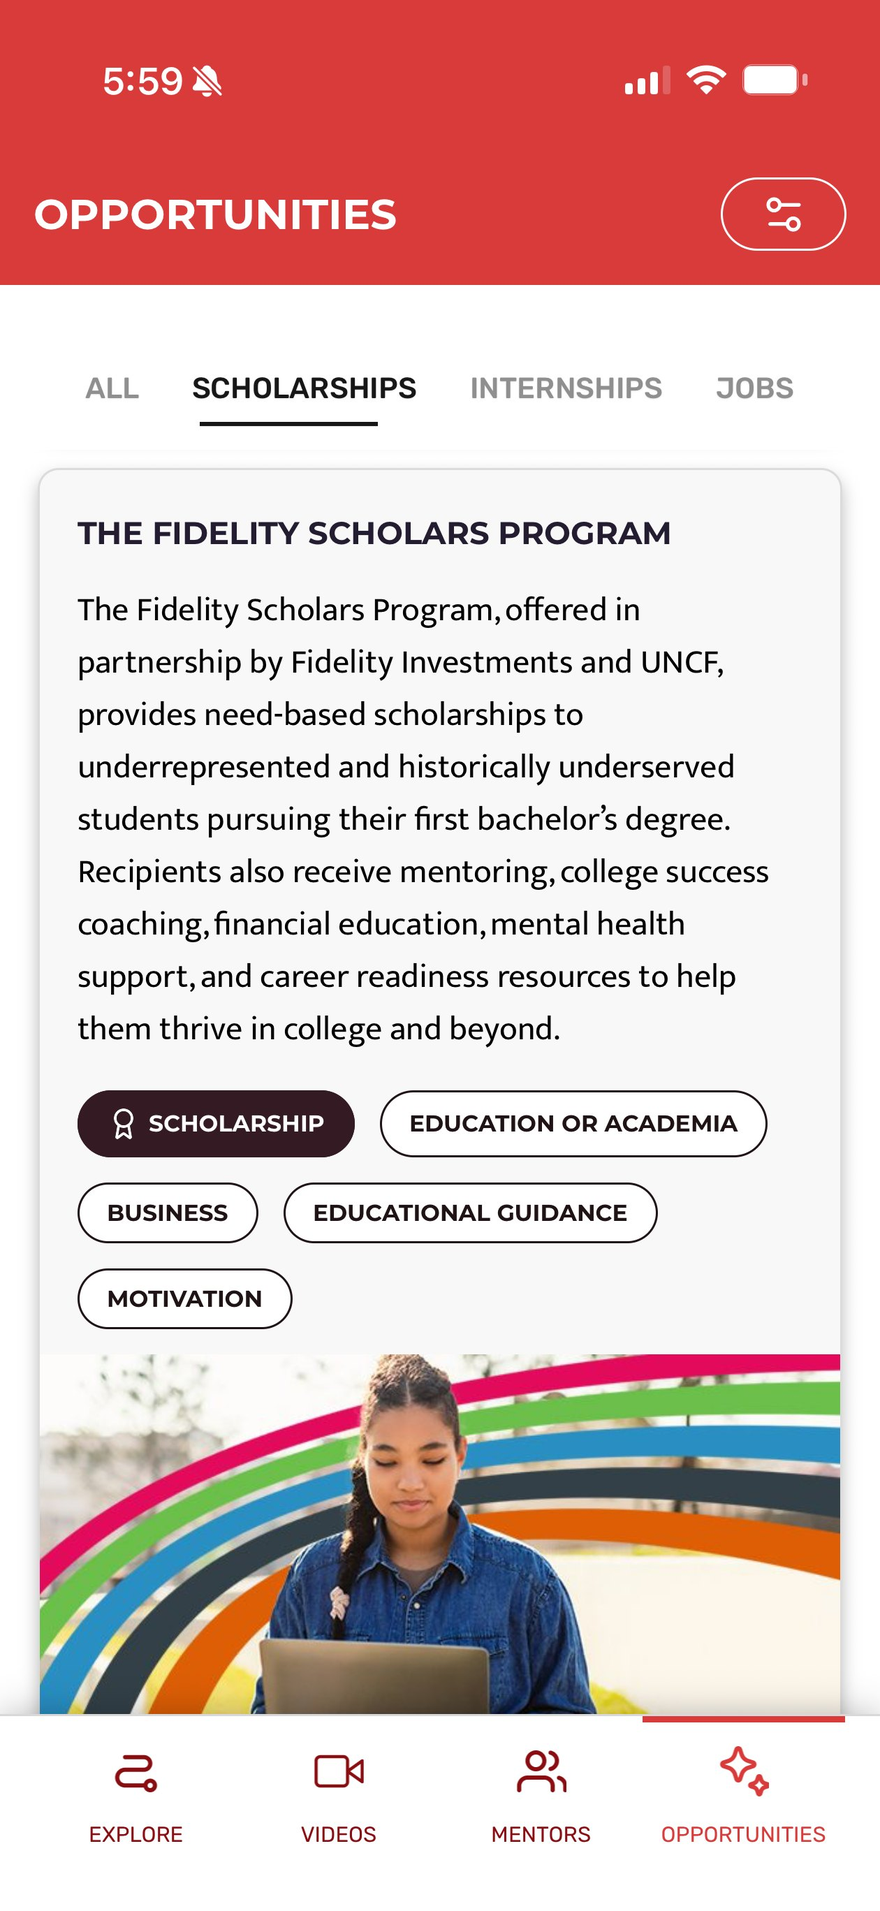
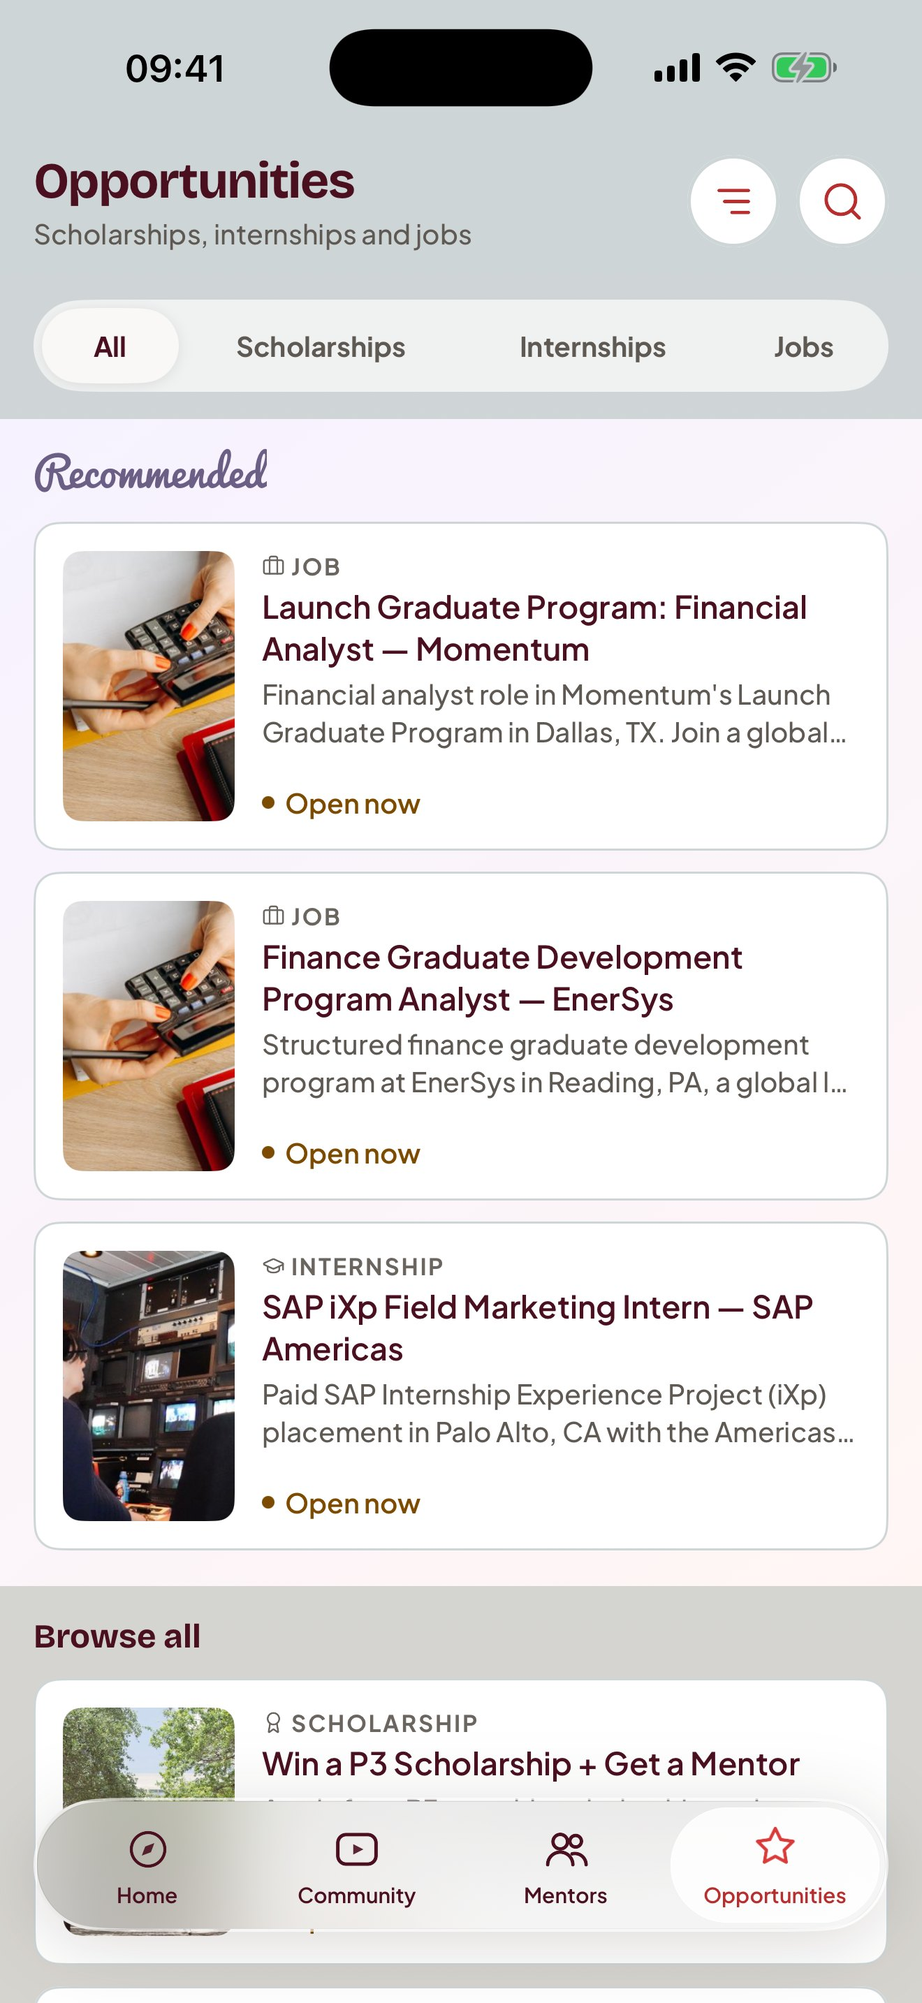
Redesign captures on frames 01-02, 05, 06, 07, 09-10; closing pano rewritten
Every phone in the set now shows the redesigned app (production simulator, 9:41
status bar) except frame 04, which still carries the old Paul M player until video
playback works on the simulators again. The closing pano's browser shows the web
platform Home instead of Milestones, the phone shows the app Home, and the "Only on
the web" block - two-thirds false since Conversations and Career Compass reached
mobile - is replaced with "Start on the app. Continue on the web." over three rows
that are true for every user: same account, nothing to install, free as always.

diff --git a/index.html b/index.html
@@ -501,7 +501,7 @@ body.export .frame-wrap .frame { transform: none; }
 
 <div class="store">
   <div class="store-header">
-    <img class="store-icon" src="assets/icon-b-1024.png?v=202608161013?v=2" alt="P3 app icon">
+    <img class="store-icon" src="assets/icon-b-1024.png?v=202609042145?v=2" alt="P3 app icon">
     <div class="store-meta">
       <h1>P3: Pulse of Perseverance</h1>
       <div class="subtitle">Empower Education &amp; Mentorship</div>
@@ -523,9 +523,9 @@ body.export .frame-wrap .frame { transform: none; }
         <div class="frame-wrap" data-zoom="frame-01">
           <div class="frame" id="frame-01">
             <div class="pano open-pair">
-              <div class="pano-watermark"><img src="assets/campus-bg.jpg?v=202608161013" alt=""></div>
+              <div class="pano-watermark"><img src="assets/campus-bg.jpg?v=202609042145" alt=""></div>
               <div class="brand-col">
-                <img class="wordmark" src="assets/p3-logo-horizontal.png?v=202608161013" alt="P3 Pulse of Perseverance">
+                <img class="wordmark" src="assets/p3-logo-horizontal.png?v=202609042145" alt="P3 Pulse of Perseverance">
                 <div class="statement">The career<br>accelerator<br>for the <em>next<br>generation.</em></div>
                 <div class="index">
                   <div class="row">
@@ -556,7 +556,7 @@ body.export .frame-wrap .frame { transform: none; }
               </div>
               <div class="device tilt">
                 <div class="screen">
-                  <img class="capture" src="captures/home.jpg?v=202608161013" alt="P3 home feed">
+                  <img class="capture" src="captures/home.jpg?v=202609042145" alt="P3 home feed">
                 </div>
               </div>
             </div>
@@ -566,9 +566,9 @@ body.export .frame-wrap .frame { transform: none; }
         <div class="frame-wrap" data-zoom="frame-02">
           <div class="frame pr" id="frame-02">
             <div class="pano open-pair">
-              <div class="pano-watermark"><img src="assets/campus-bg.jpg?v=202608161013" alt=""></div>
+              <div class="pano-watermark"><img src="assets/campus-bg.jpg?v=202609042145" alt=""></div>
               <div class="brand-col">
-                <img class="wordmark" src="assets/p3-logo-horizontal.png?v=202608161013" alt="">
+                <img class="wordmark" src="assets/p3-logo-horizontal.png?v=202609042145" alt="">
                 <div class="statement">The career<br>accelerator<br>for the <em>next<br>generation.</em></div>
                 <div class="index">
                   <div class="row">
@@ -599,7 +599,7 @@ body.export .frame-wrap .frame { transform: none; }
               </div>
               <div class="device tilt">
                 <div class="screen">
-                  <img class="capture" src="captures/home.jpg?v=202608161013" alt="P3 home feed">
+                  <img class="capture" src="captures/home.jpg?v=202609042145" alt="P3 home feed">
                 </div>
               </div>
             </div>
@@ -635,22 +635,22 @@ body.export .frame-wrap .frame { transform: none; }
               <line x1="660" y1="950" x2="1000" y2="1560" stroke="rgba(255,255,255,0.10)" stroke-width="2"/>
               <line x1="660" y1="950" x2="210" y2="1630" stroke="rgba(255,255,255,0.10)" stroke-width="2"/>
             </svg>
-            <div class="c-node" style="width:170px;height:170px;left:875px;top:615px"><img src="assets/mentors/thomas.jpg?v=202608161013" alt="Thomas, P3 mentor"></div>
+            <div class="c-node" style="width:170px;height:170px;left:875px;top:615px"><img src="assets/mentors/thomas.jpg?v=202609042145" alt="Thomas, P3 mentor"></div>
             <div class="c-tag" style="left:865px;top:800px">97% match</div>
-            <div class="c-node" style="width:170px;height:170px;left:245px;top:715px"><img src="assets/mentors/m2.jpg?v=202608161013" alt=""></div>
+            <div class="c-node" style="width:170px;height:170px;left:245px;top:715px"><img src="assets/mentors/m2.jpg?v=202609042145" alt=""></div>
             <div class="c-tag" style="left:210px;top:900px">94% match</div>
-            <div class="c-node" style="width:170px;height:170px;left:615px;top:1335px"><img src="assets/mentors/m3.jpg?v=202608161013" alt=""></div>
+            <div class="c-node" style="width:170px;height:170px;left:615px;top:1335px"><img src="assets/mentors/m3.jpg?v=202609042145" alt=""></div>
             <div class="c-tag" style="left:610px;top:1520px">92% match</div>
-            <div class="c-node" style="width:130px;height:130px;left:985px;top:1115px"><img src="assets/mentors/m4.jpg?v=202608161013" alt=""></div>
-            <div class="c-node" style="width:130px;height:130px;left:175px;top:1185px"><img src="assets/mentors/m5.jpg?v=202608161013" alt=""></div>
-            <div class="c-node" style="width:130px;height:130px;left:435px;top:415px"><img src="assets/mentors/m6.jpg?v=202608161013" alt=""></div>
-            <div class="c-node" style="width:108px;height:108px;left:1035px;top:465px"><img src="assets/mentors/m7.jpg?v=202608161013" alt=""></div>
-            <div class="c-node" style="width:108px;height:108px;left:125px;top:475px"><img src="assets/mentors/m8.jpg?v=202608161013" alt=""></div>
-            <div class="c-node" style="width:108px;height:108px;left:1075px;top:825px"><img src="assets/mentors/m9.jpg?v=202608161013" alt=""></div>
-            <div class="c-node" style="width:118px;height:118px;left:150px;top:1580px"><img src="assets/mentors/m10.jpg?v=202608161013" alt=""></div>
-            <div class="c-node" style="width:126px;height:126px;left:945px;top:1500px"><img src="assets/mentors/m11.jpg?v=202608161013" alt=""></div>
-            <div class="c-node" style="width:100px;height:100px;left:1150px;top:1230px"><img src="assets/mentors/m12.jpg?v=202608161013" alt=""></div>
-            <div class="c-node" style="width:96px;height:96px;left:560px;top:165px"><img src="assets/mentors/m13.jpg?v=202608161013" alt=""></div>
+            <div class="c-node" style="width:130px;height:130px;left:985px;top:1115px"><img src="assets/mentors/m4.jpg?v=202609042145" alt=""></div>
+            <div class="c-node" style="width:130px;height:130px;left:175px;top:1185px"><img src="assets/mentors/m5.jpg?v=202609042145" alt=""></div>
+            <div class="c-node" style="width:130px;height:130px;left:435px;top:415px"><img src="assets/mentors/m6.jpg?v=202609042145" alt=""></div>
+            <div class="c-node" style="width:108px;height:108px;left:1035px;top:465px"><img src="assets/mentors/m7.jpg?v=202609042145" alt=""></div>
+            <div class="c-node" style="width:108px;height:108px;left:125px;top:475px"><img src="assets/mentors/m8.jpg?v=202609042145" alt=""></div>
+            <div class="c-node" style="width:108px;height:108px;left:1075px;top:825px"><img src="assets/mentors/m9.jpg?v=202609042145" alt=""></div>
+            <div class="c-node" style="width:118px;height:118px;left:150px;top:1580px"><img src="assets/mentors/m10.jpg?v=202609042145" alt=""></div>
+            <div class="c-node" style="width:126px;height:126px;left:945px;top:1500px"><img src="assets/mentors/m11.jpg?v=202609042145" alt=""></div>
+            <div class="c-node" style="width:100px;height:100px;left:1150px;top:1230px"><img src="assets/mentors/m12.jpg?v=202609042145" alt=""></div>
+            <div class="c-node" style="width:96px;height:96px;left:560px;top:165px"><img src="assets/mentors/m13.jpg?v=202609042145" alt=""></div>
             <div class="c-you"><svg viewBox="0 0 24 24" style="width:96px;height:96px;stroke:#fff;fill:none;stroke-width:2.1;stroke-linecap:round;stroke-linejoin:round"><circle cx="12" cy="8" r="3.6"/><path d="M5 20a7 7 0 0 1 14 0"/></svg></div>
             <div class="c-you-label">You</div>
           </div>
@@ -672,7 +672,7 @@ body.export .frame-wrap .frame { transform: none; }
           <div class="stage">
             <div class="device">
               <div class="screen">
-                <img class="capture" src="captures/video.jpg?v=202608161013" alt="Video answer from a mentor">
+                <img class="capture" src="captures/video.jpg?v=202609042145" alt="Video answer from a mentor">
               </div>
             </div>
           </div>
@@ -686,7 +686,7 @@ body.export .frame-wrap .frame { transform: none; }
     <div class="slot">
       <div class="frame-wrap" data-zoom="frame-05">
         <div class="frame dark f-opps" id="frame-05">
-          <div class="photo-bg"><img src="assets/opps-bg.jpg?v=202608161013" alt=""></div>
+          <div class="photo-bg"><img src="assets/opps-bg.jpg?v=202609042145" alt=""></div>
           <div class="photo-overlay"></div>
           <div class="caption">
             <div class="headline">Scholarships.<br>Internships. <em>Jobs.</em></div>
@@ -695,7 +695,7 @@ body.export .frame-wrap .frame { transform: none; }
           <div class="stage">
             <div class="device">
               <div class="screen">
-                <img class="capture" src="captures/opportunities.jpg?v=202608161013" alt="Live scholarships feed">
+                <img class="capture" src="captures/opportunities.jpg?v=202609042145" alt="Live scholarships feed">
               </div>
             </div>
           </div>
@@ -722,7 +722,7 @@ body.export .frame-wrap .frame { transform: none; }
           <div class="stage">
             <div class="device">
               <div class="screen">
-                <img class="capture" src="captures/milestones.jpg?v=202608161013" alt="Milestone pathway">
+                <img class="capture" src="captures/milestones.jpg?v=202609042145" alt="Milestone pathway">
               </div>
             </div>
           </div>
@@ -744,7 +744,7 @@ body.export .frame-wrap .frame { transform: none; }
           <div class="stage">
             <div class="device">
               <div class="screen">
-                <img class="capture" src="captures/mentor.jpg?v=202608161013" alt="Mentor profile">
+                <img class="capture" src="captures/mentor.jpg?v=202609042145" alt="Mentor profile">
               </div>
             </div>
           </div>
@@ -758,7 +758,7 @@ body.export .frame-wrap .frame { transform: none; }
     <div class="slot">
       <div class="frame-wrap" data-zoom="frame-08">
         <div class="frame dark f-recog" id="frame-08">
-          <div class="recog-bg"><img src="assets/recognized-bg.jpg?v=202608161013" alt=""></div>
+          <div class="recog-bg"><img src="assets/recognized-bg.jpg?v=202609042145" alt=""></div>
           <div class="recog-wash"></div>
           <div class="caption">
             <div class="headline">Recognized by<br><em>the best.</em></div>
@@ -767,42 +767,42 @@ body.export .frame-wrap .frame { transform: none; }
           <div class="wall">
             <div class="w-label">AS SEEN IN</div>
             <div class="w-grid m3">
-              <div class="wt media"><img src="assets/logos/abc-news.png?v=202608161013" alt="ABC News" style="max-height:180px"></div>
-              <div class="wt media"><img src="assets/logos/nyt-square.png?v=202608161013" alt="The New York Times" style="max-height:142px"></div>
-              <div class="wt media"><img src="assets/logos/today.png?v=202608161013" alt="today"></div>
-              <div class="wt media"><img src="assets/logos/adweek.png?v=202608161013" alt="Advertising Week New York" style="width:100%;max-height:none"></div>
-              <div class="wt media"><img src="assets/logos/telly.png?v=202608161013" alt="The Telly Awards" style="max-height:158px"></div>
-              <div class="wt media" style="gap:14px"><img src="assets/logos/webby.svg?v=202608161013" alt="Webby Awards" style="height:128px;width:auto;flex:none"><div style="font-family:var(--body);font-weight:800;font-size:30px;line-height:1.1;color:#191919;letter-spacing:0.5px">THE<br>WEBBY<br>AWARDS</div></div>
+              <div class="wt media"><img src="assets/logos/abc-news.png?v=202609042145" alt="ABC News" style="max-height:180px"></div>
+              <div class="wt media"><img src="assets/logos/nyt-square.png?v=202609042145" alt="The New York Times" style="max-height:142px"></div>
+              <div class="wt media"><img src="assets/logos/today.png?v=202609042145" alt="today"></div>
+              <div class="wt media"><img src="assets/logos/adweek.png?v=202609042145" alt="Advertising Week New York" style="width:100%;max-height:none"></div>
+              <div class="wt media"><img src="assets/logos/telly.png?v=202609042145" alt="The Telly Awards" style="max-height:158px"></div>
+              <div class="wt media" style="gap:14px"><img src="assets/logos/webby.svg?v=202609042145" alt="Webby Awards" style="height:128px;width:auto;flex:none"><div style="font-family:var(--body);font-weight:800;font-size:30px;line-height:1.1;color:#191919;letter-spacing:0.5px">THE<br>WEBBY<br>AWARDS</div></div>
             </div>
             <div class="w-gap"></div>
             <div class="w-label">ACADEMIC PARTNERS</div>
             <div class="w-grid p3c">
-              <div class="wt partner"><img src="assets/logos/cps.png?v=202608161013" alt="cps"></div>
-              <div class="wt partner"><img src="assets/logos/csu.png?v=202608161013" alt="csu"></div>
-              <div class="wt partner"><img src="assets/logos/langston.png?v=202608161013" alt="langston"></div>
-              <div class="wt partner"><img src="assets/logos/xavier.png?v=202608161013" alt="xavier"></div>
-              <div class="wt partner"><img src="assets/logos/nyu.png?v=202608161013" alt="nyu"></div>
-              <div class="wt partner"><img src="assets/logos/leo.png?v=202608161013" alt="leo"></div>
+              <div class="wt partner"><img src="assets/logos/cps.png?v=202609042145" alt="cps"></div>
+              <div class="wt partner"><img src="assets/logos/csu.png?v=202609042145" alt="csu"></div>
+              <div class="wt partner"><img src="assets/logos/langston.png?v=202609042145" alt="langston"></div>
+              <div class="wt partner"><img src="assets/logos/xavier.png?v=202609042145" alt="xavier"></div>
+              <div class="wt partner"><img src="assets/logos/nyu.png?v=202609042145" alt="nyu"></div>
+              <div class="wt partner"><img src="assets/logos/leo.png?v=202609042145" alt="leo"></div>
             </div>
             <div class="w-gap"></div>
             <div class="w-label">COMMUNITY &amp; FOUNDATION PARTNERS</div>
             <div class="w-grid p3c">
-              <div class="wt partner"><img src="assets/logos/mbk.png?v=202608161013" alt="mbk"></div>
-              <div class="wt partner"><img src="assets/logos/champs.png?v=202608161013" alt="champs"></div>
-              <div class="wt partner"><img src="assets/logos/100bm.png?v=202608161013" alt="100bm"></div>
-              <div class="wt partner"><img src="assets/logos/build.png?v=202608161013" alt="build" style="max-height:88px"></div>
-              <div class="wt partner"><img src="assets/logos/project-hood.png?v=202608161013" alt="Project HOOD" style="filter:brightness(0)"></div>
-              <div class="wt partner"><img src="assets/logos/gilead.png?v=202608161013" alt="gilead"></div>
+              <div class="wt partner"><img src="assets/logos/mbk.png?v=202609042145" alt="mbk"></div>
+              <div class="wt partner"><img src="assets/logos/champs.png?v=202609042145" alt="champs"></div>
+              <div class="wt partner"><img src="assets/logos/100bm.png?v=202609042145" alt="100bm"></div>
+              <div class="wt partner"><img src="assets/logos/build.png?v=202609042145" alt="build" style="max-height:88px"></div>
+              <div class="wt partner"><img src="assets/logos/project-hood.png?v=202609042145" alt="Project HOOD" style="filter:brightness(0)"></div>
+              <div class="wt partner"><img src="assets/logos/gilead.png?v=202609042145" alt="gilead"></div>
             </div>
             <div class="w-gap"></div>
             <div class="w-label">KNOWLEDGE &amp; INDUSTRY PARTNERS</div>
             <div class="w-grid p3c">
-              <div class="wt partner"><img src="assets/logos/google.png?v=202608161013" alt="google"></div>
-              <div class="wt partner"><img src="assets/logos/mentor.png?v=202608161013" alt="mentor"></div>
-              <div class="wt partner"><img src="assets/logos/versus.png?v=202608161013" alt="Versus" style="width:78%;max-height:none"></div>
-              <div class="wt partner"><img src="assets/logos/michigan.png?v=202608161013" alt="michigan"></div>
-              <div class="wt partner"><img src="assets/logos/kepler.png?v=202608161013" alt="Kepler" style="width:82%;max-height:none"></div>
-              <div class="wt partner"><img src="assets/logos/3advance.png?v=202608161013" alt="3advance"></div>
+              <div class="wt partner"><img src="assets/logos/google.png?v=202609042145" alt="google"></div>
+              <div class="wt partner"><img src="assets/logos/mentor.png?v=202609042145" alt="mentor"></div>
+              <div class="wt partner"><img src="assets/logos/versus.png?v=202609042145" alt="Versus" style="width:78%;max-height:none"></div>
+              <div class="wt partner"><img src="assets/logos/michigan.png?v=202609042145" alt="michigan"></div>
+              <div class="wt partner"><img src="assets/logos/kepler.png?v=202609042145" alt="Kepler" style="width:82%;max-height:none"></div>
+              <div class="wt partner"><img src="assets/logos/3advance.png?v=202609042145" alt="3advance"></div>
             </div>
           </div>
           <div class="grain"></div>
@@ -832,18 +832,18 @@ body.export .frame-wrap .frame { transform: none; }
                   <div class="url-chip">platform.pulseofp3.org</div>
                 </div>
                 <div class="web-screen">
-                  <img class="capture" src="captures/web-ascent.jpg?v=202608161013" alt="P3 web platform, Milestones view">
+                  <img class="capture" src="captures/web-home.jpg?v=202609042145" alt="P3 web platform, Milestones view">
                 </div>
               </div>
               <div class="web-excl">
-                <div class="we-label">Only on the web</div>
-                <div class="we-row"><svg viewBox="0 0 24 24"><rect x="9" y="3" width="6" height="11" rx="3"/><path d="M5 11a7 7 0 0 0 14 0"/><path d="M12 18v3"/></svg><span>Interview Coach</span></div>
-                <div class="we-row"><svg viewBox="0 0 24 24"><circle cx="12" cy="12" r="9"/><path d="M15 9l-2 5-4 2 2-5z"/></svg><span>Career Compass</span></div>
-                <div class="we-row"><svg viewBox="0 0 24 24"><path d="M4 5h16v11H9l-5 4z"/></svg><span>Mentor Chat</span></div>
+                <div class="we-label">Start on the app.<br>Continue on the web.</div>
+                <div class="we-row"><svg viewBox="0 0 24 24"><circle cx="9" cy="8" r="4"/><path d="M2 21a7 7 0 0 1 14 0"/><path d="m16 11 2 2 4-4"/></svg><span>Same account, same progress</span></div>
+                <div class="we-row"><svg viewBox="0 0 24 24"><circle cx="12" cy="12" r="9"/><path d="M3 12h18"/><path d="M12 3a14 14 0 0 1 0 18a14 14 0 0 1 0-18z"/></svg><span>Nothing to install</span></div>
+                <div class="we-row"><svg viewBox="0 0 24 24"><path d="M12 21s-7-4.6-7-10a4 4 0 0 1 7-2.6A4 4 0 0 1 19 11c0 5.4-7 10-7 10z"/></svg><span>Free, as always</span></div>
               </div>
               <div class="device close-phone">
                 <div class="screen">
-                  <img class="capture" src="captures/web-phone.jpg?v=202608161013" alt="P3 web platform on a phone">
+                  <img class="capture" src="captures/home.jpg?v=202609042145" alt="P3 app home on a phone">
                 </div>
               </div>
             </div>
@@ -868,18 +868,18 @@ body.export .frame-wrap .frame { transform: none; }
                   <div class="url-chip">platform.pulseofp3.org</div>
                 </div>
                 <div class="web-screen">
-                  <img class="capture" src="captures/web-ascent.jpg?v=202608161013" alt="P3 web platform, Milestones view">
+                  <img class="capture" src="captures/web-home.jpg?v=202609042145" alt="P3 web platform, Milestones view">
                 </div>
               </div>
               <div class="web-excl">
-                <div class="we-label">Only on the web</div>
-                <div class="we-row"><svg viewBox="0 0 24 24"><rect x="9" y="3" width="6" height="11" rx="3"/><path d="M5 11a7 7 0 0 0 14 0"/><path d="M12 18v3"/></svg><span>Interview Coach</span></div>
-                <div class="we-row"><svg viewBox="0 0 24 24"><circle cx="12" cy="12" r="9"/><path d="M15 9l-2 5-4 2 2-5z"/></svg><span>Career Compass</span></div>
-                <div class="we-row"><svg viewBox="0 0 24 24"><path d="M4 5h16v11H9l-5 4z"/></svg><span>Mentor Chat</span></div>
+                <div class="we-label">Start on the app.<br>Continue on the web.</div>
+                <div class="we-row"><svg viewBox="0 0 24 24"><circle cx="9" cy="8" r="4"/><path d="M2 21a7 7 0 0 1 14 0"/><path d="m16 11 2 2 4-4"/></svg><span>Same account, same progress</span></div>
+                <div class="we-row"><svg viewBox="0 0 24 24"><circle cx="12" cy="12" r="9"/><path d="M3 12h18"/><path d="M12 3a14 14 0 0 1 0 18a14 14 0 0 1 0-18z"/></svg><span>Nothing to install</span></div>
+                <div class="we-row"><svg viewBox="0 0 24 24"><path d="M12 21s-7-4.6-7-10a4 4 0 0 1 7-2.6A4 4 0 0 1 19 11c0 5.4-7 10-7 10z"/></svg><span>Free, as always</span></div>
               </div>
               <div class="device close-phone">
                 <div class="screen">
-                  <img class="capture" src="captures/web-phone.jpg?v=202608161013" alt="P3 web platform on a phone">
+                  <img class="capture" src="captures/home.jpg?v=202609042145" alt="P3 app home on a phone">
                 </div>
               </div>
             </div>
@@ -887,7 +887,7 @@ body.export .frame-wrap .frame { transform: none; }
           </div>
         </div>
       </div>
-      <div class="slot-label"><b>09 + 10</b> &middot; closing panorama &middot; web-ascent.webp (real) + home.png</div>
+      <div class="slot-label"><b>09 + 10</b> &middot; closing panorama &middot; web-home.png (platform home, demo) + home.png</div>
     </div>
 
   </div>
@@ -928,7 +928,7 @@ body.export .frame-wrap .frame { transform: none; }
       var span = document.createElement('span');
       span.className = 'frost-bg';
       span.style.backgroundImage =
-        'linear-gradient(rgba(255,255,255,0.34), rgba(255,255,255,0.34)), url(assets/recognized-bg.jpg?v=202608161013)';
+        'linear-gradient(rgba(255,255,255,0.34), rgba(255,255,255,0.34)), url(assets/recognized-bg.jpg?v=202609042145)';
       span.style.backgroundSize = 'auto, ' + dw + 'px ' + dh + 'px';
       span.style.backgroundPosition = '0 0, ' + (ox - (tx - BLEED)) + 'px ' + (oy - (ty - BLEED)) + 'px';
       t.insertBefore(span, t.firstChild);
